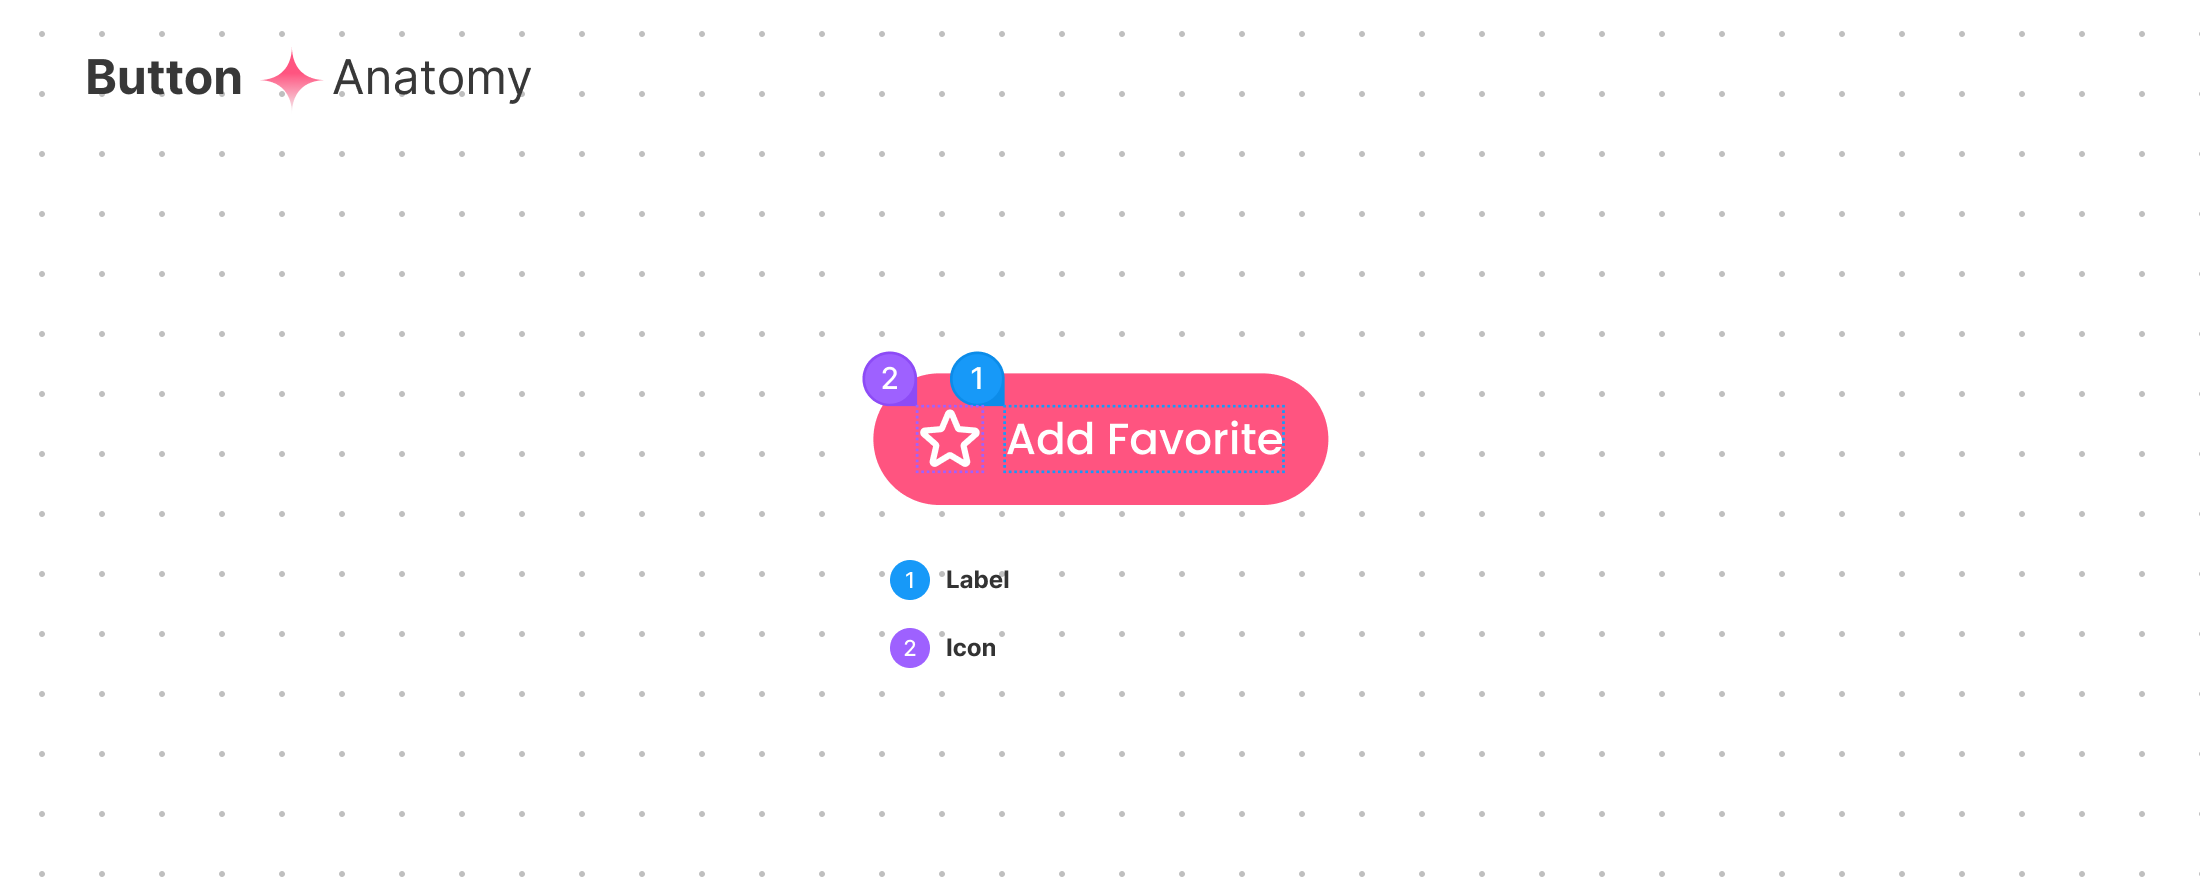
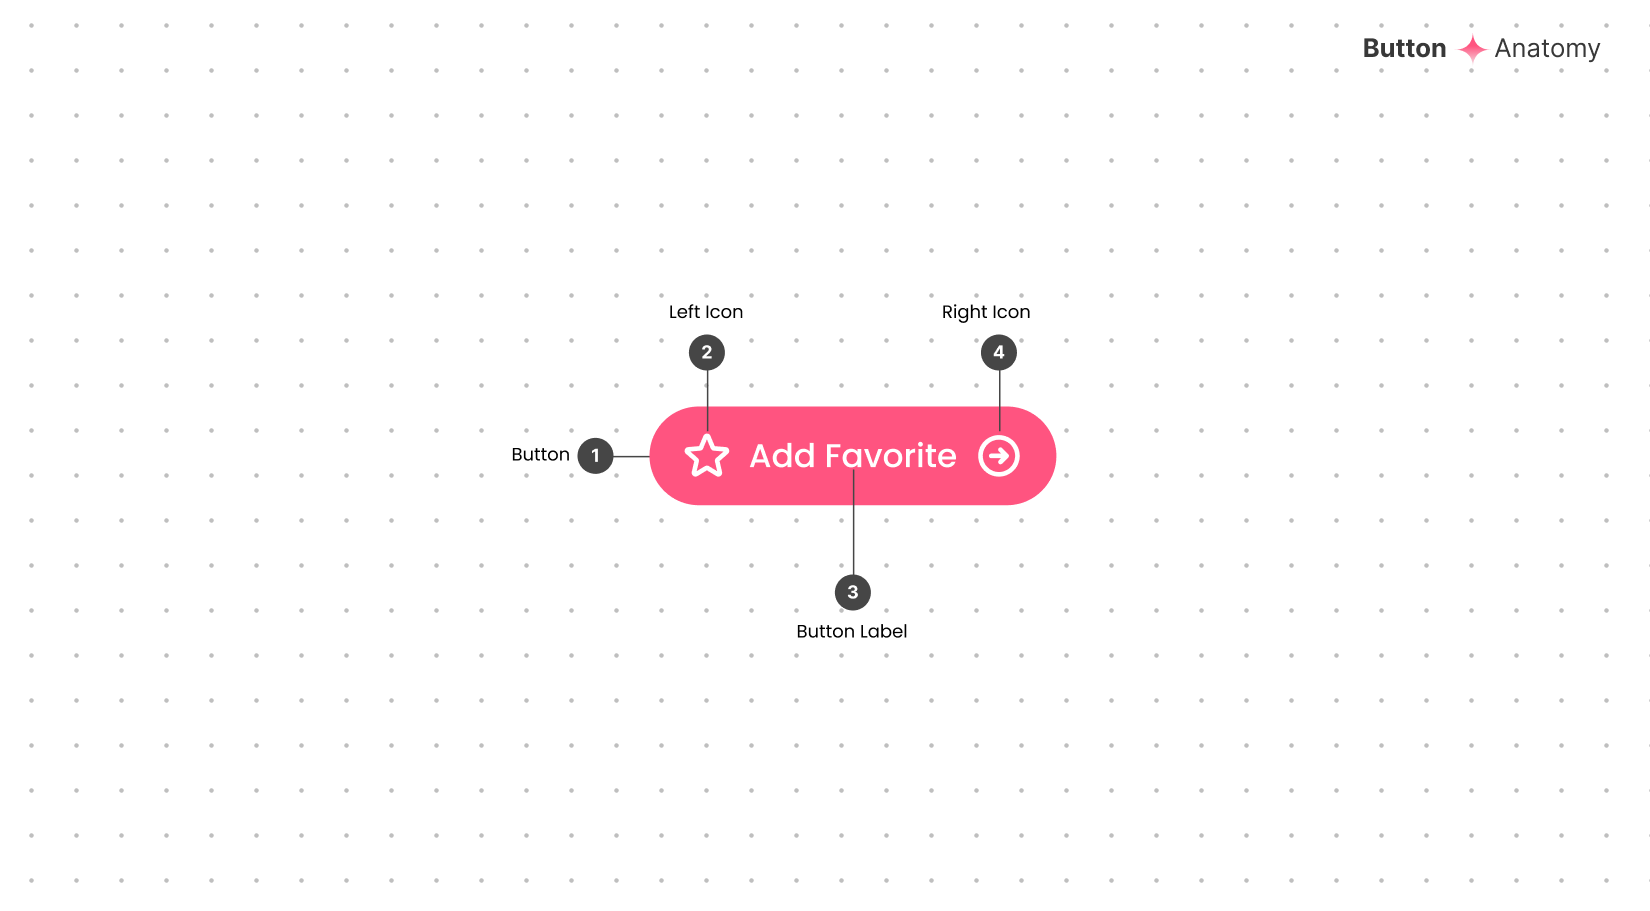
Update ButtonBlueprint image height and add spacing in DesignSystemCard component

diff --git a/src/app/components/[slug]/page.tsx b/src/app/components/[slug]/page.tsx
@@ -77,7 +77,7 @@ export default async function ComponentDetailPage({
             alt="logo"
             style={{ height: "100%", width: "100%" }}
             width={1000}
-            height={1000}
+            height={2000}
             quality={100}
           />
         </div>

diff --git a/src/component/components/StatCard/DesignSystemCard.tsx b/src/component/components/StatCard/DesignSystemCard.tsx
@@ -24,6 +24,7 @@ interface DesignSystemCardProps {
  * - Clear base class separation for maintainability
  * - Early return for empty state to reduce render branching
  */
+
 export default function DesignSystemCard({
   designSystems,
   className,
